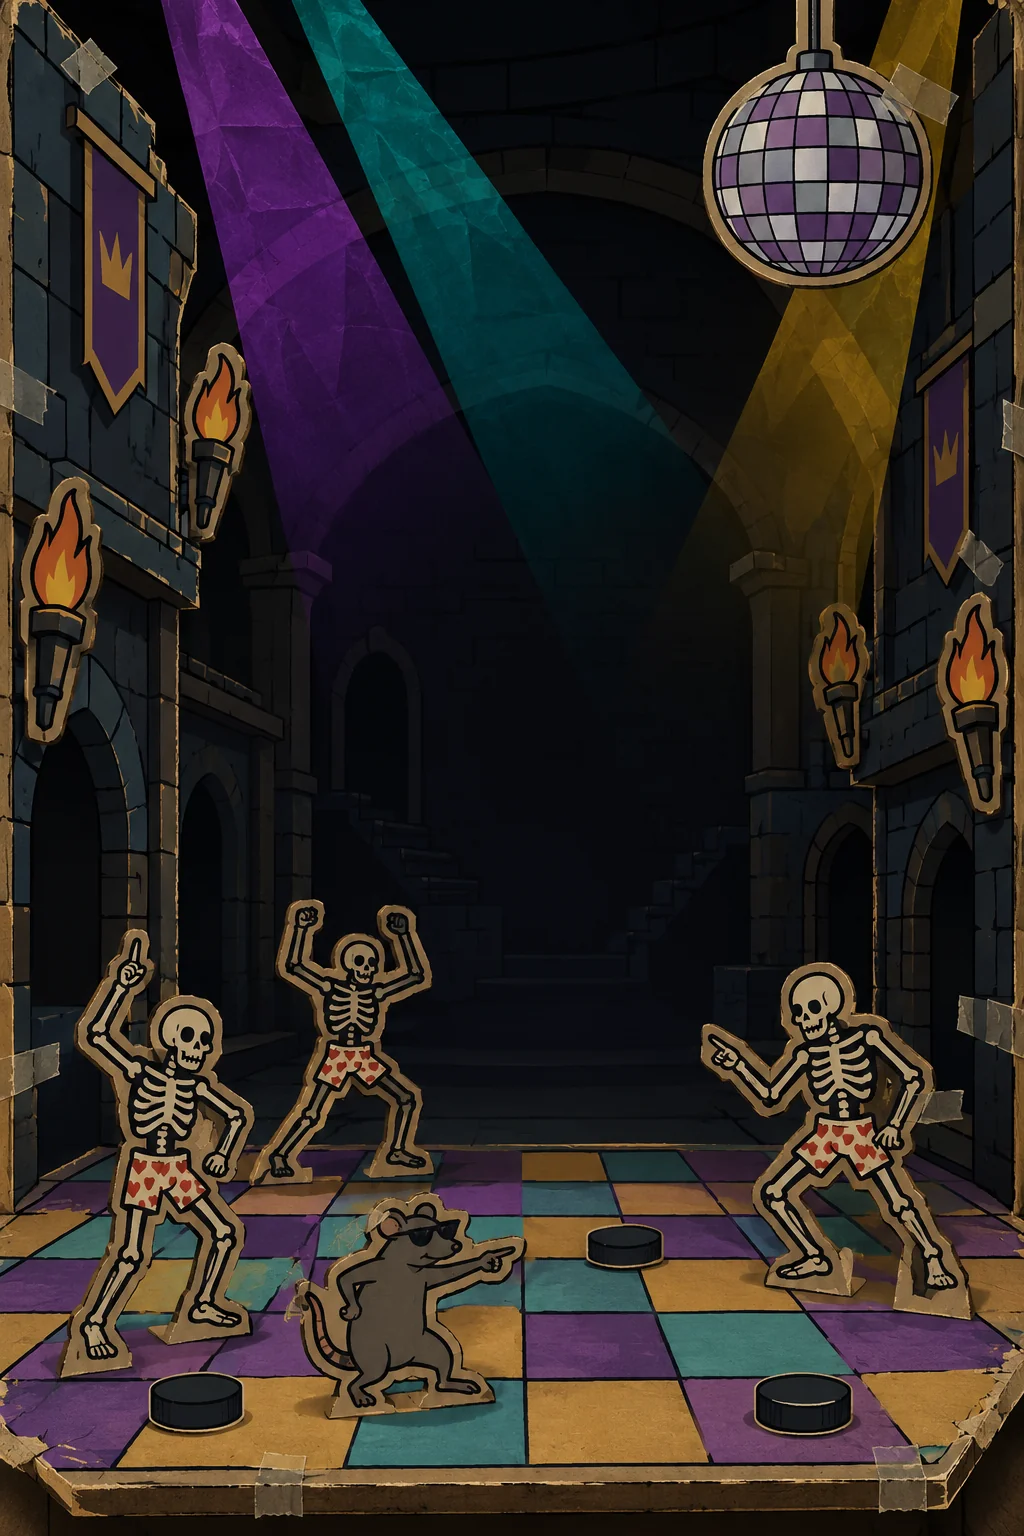
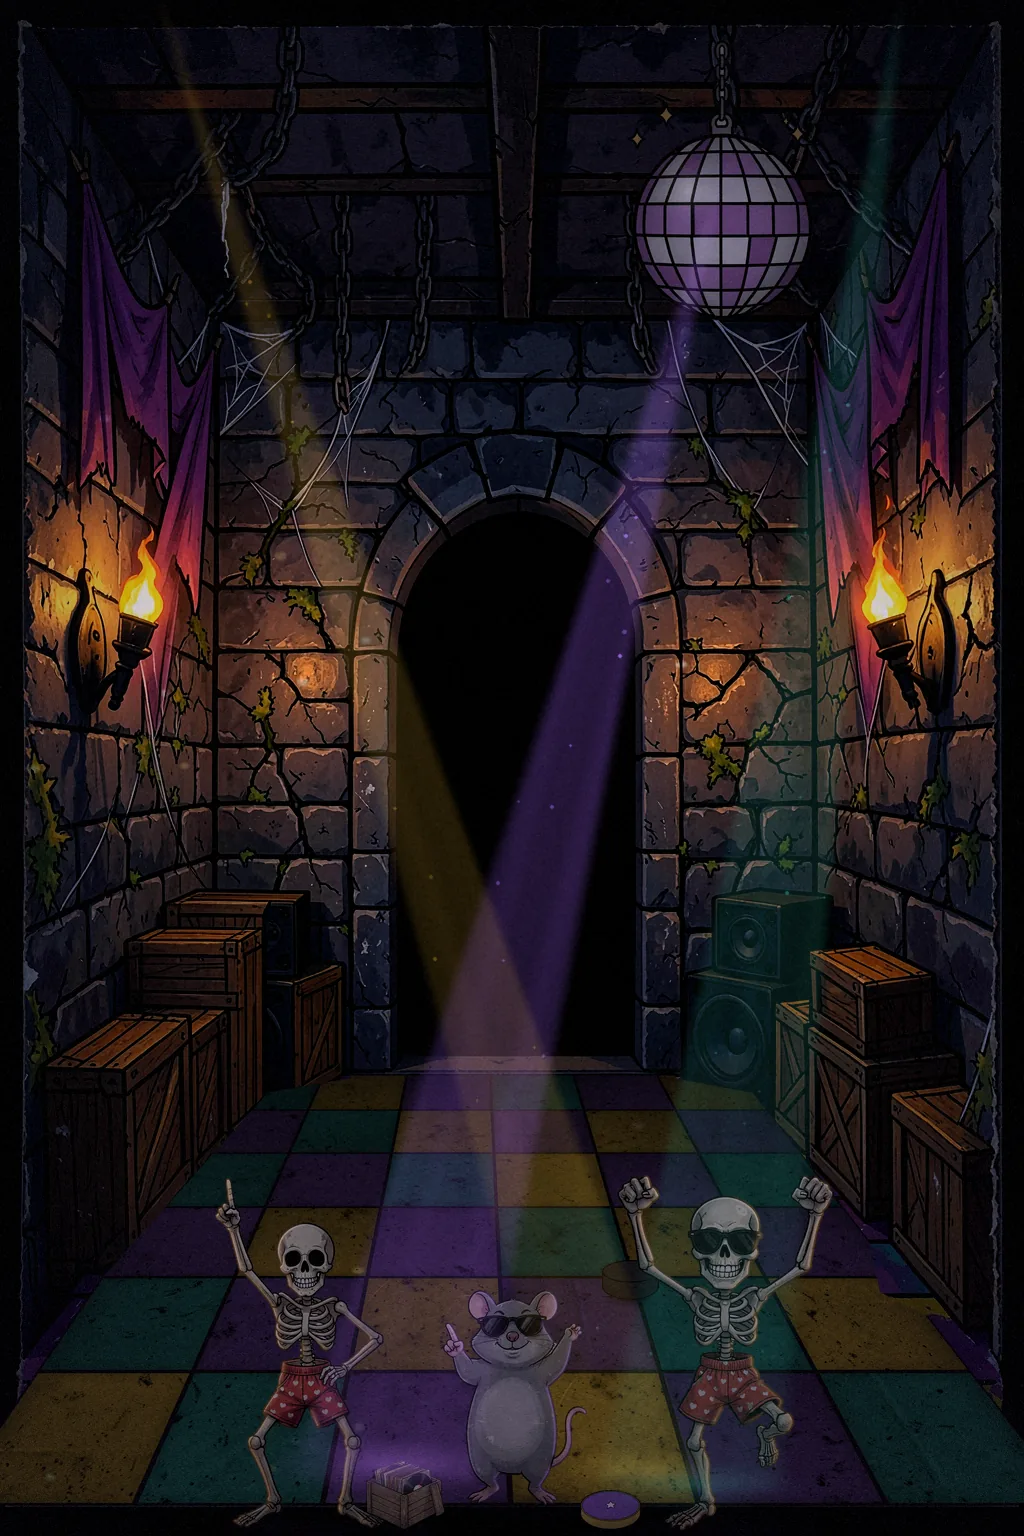
Main menu background: hall with dancing skeletons, rat and goblin, made from local FLUX parts
The old pictures came from ChatGPT; these are built from rooms, a floor texture, characters and props
rendered separately on the local FLUX setup and glued by compose2.py, so they can ship on Steam.
Vladislav picked the hall for both the wide and the tall picture.

Claude-Session: https://claude.ai/code/session_01F3rjy8X8QVmV6hBZHYw614

diff --git a/README.md b/README.md
@@ -218,7 +218,7 @@ npm run build    # сборка в dist/
 | `spk_1_on` … `spk_2_off` | полоса-кристалл под здоровьем, расколотая трещиной на два куска, горящий и потухший у каждого | две искры; третья искра это сам кристалл способности, он загорается, когда искр хватает |
 | `gem` | кристалл способности во всю высоту блока, с остриём вправо, выемкой слева под острие здоровья и «ногой» под концом полосы здоровья до трещины искр | кнопка способности и третья искра; значок `ab_*` в средней грани, светится, когда искры полные |
 | `ab_<герой>` | однотонный кремовый значок способности: щит, летящая шайба, пламя, молния, куриная ножка, веер карт | в кристалле способности вместо её названия |
-| `menu_bg`, `menu_bg_tall` | картонная дискотека в подземелье: зеркальный шар, танцпол, скелеты-вырезки; широкий и высокий | фон главного меню и его окон, высокий на стоячем телефоне |
+| `menu_bg`, `menu_bg_tall` | дискотека в подземельном зале: арка, факелы, зеркальный шар, лучи, танцпол, скелеты, крыса и гоблин; широкий 1536×1024 и высокий 1024×1536. Собраны из отдельных картинок FLUX (комната, текстура пола, персонажи, предметы) скриптом `compose2.py`, всё лежит в файлах проекта `hud/menu-bg/parts2/` | фон главного меню и его окон, высокий на стоячем телефоне |
 | `photo_disco`, `photo_bar`, `photo_camp`, `photo_throne` | квадратные комнаты-диорамы 1024×1024 с пустым полом посередине (FLUX, промты в `CartoonGen/prompts/photo/`) | фон фото отряда на экране выбора героя и в лобби; герои на фото умножаются на средний цвет фона (`tint` у фона в `src/photo.ts`) |
 
 ## Устройство кода
